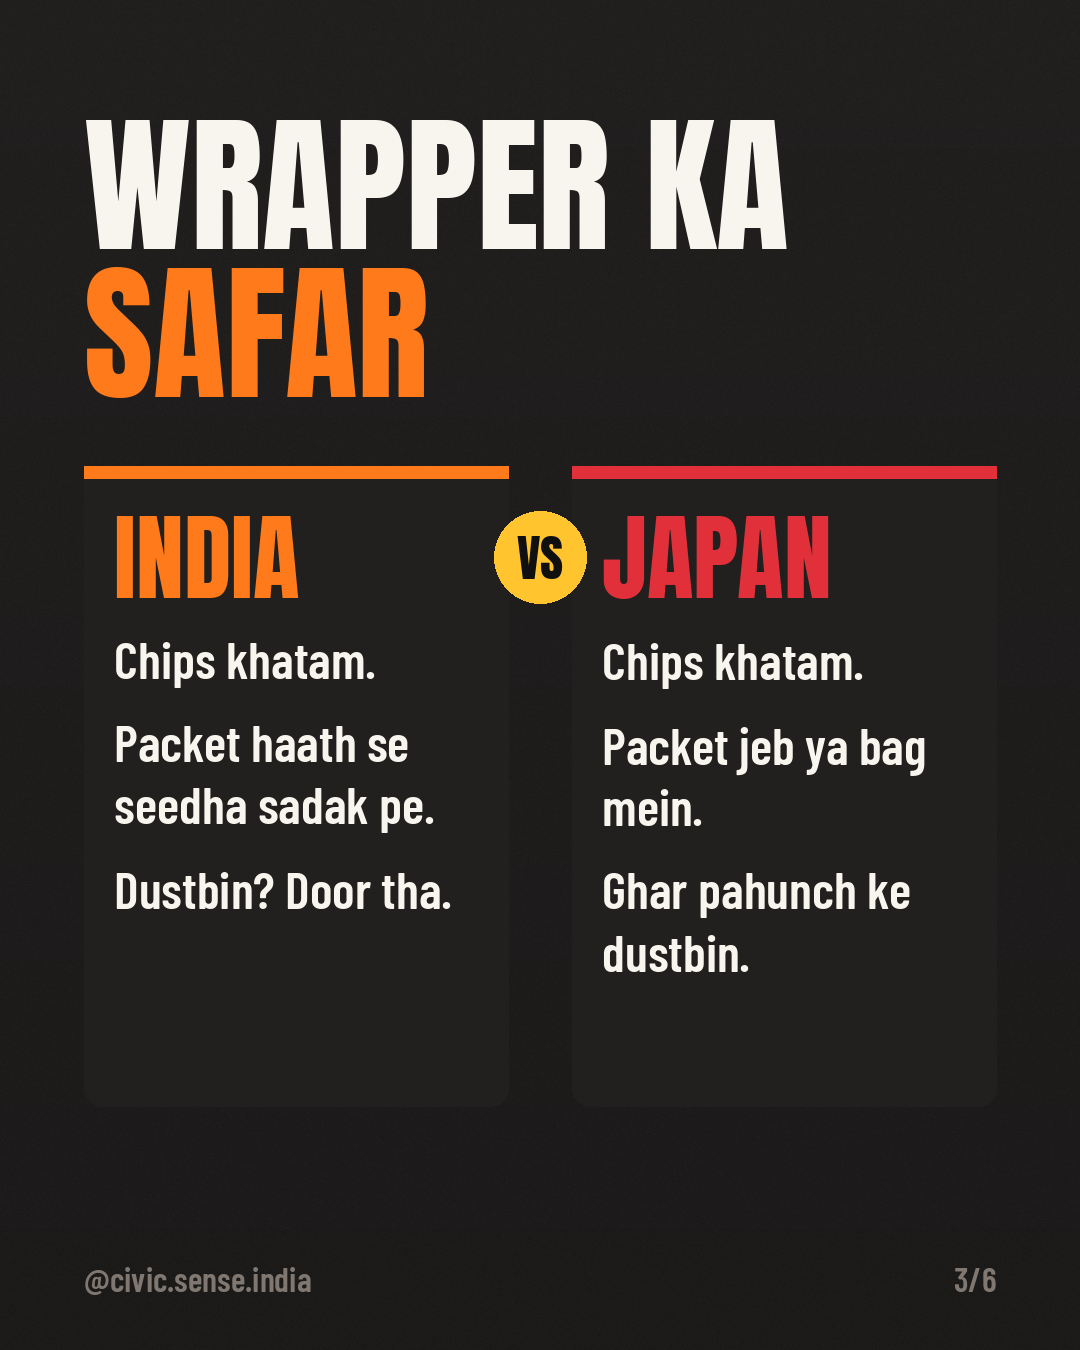
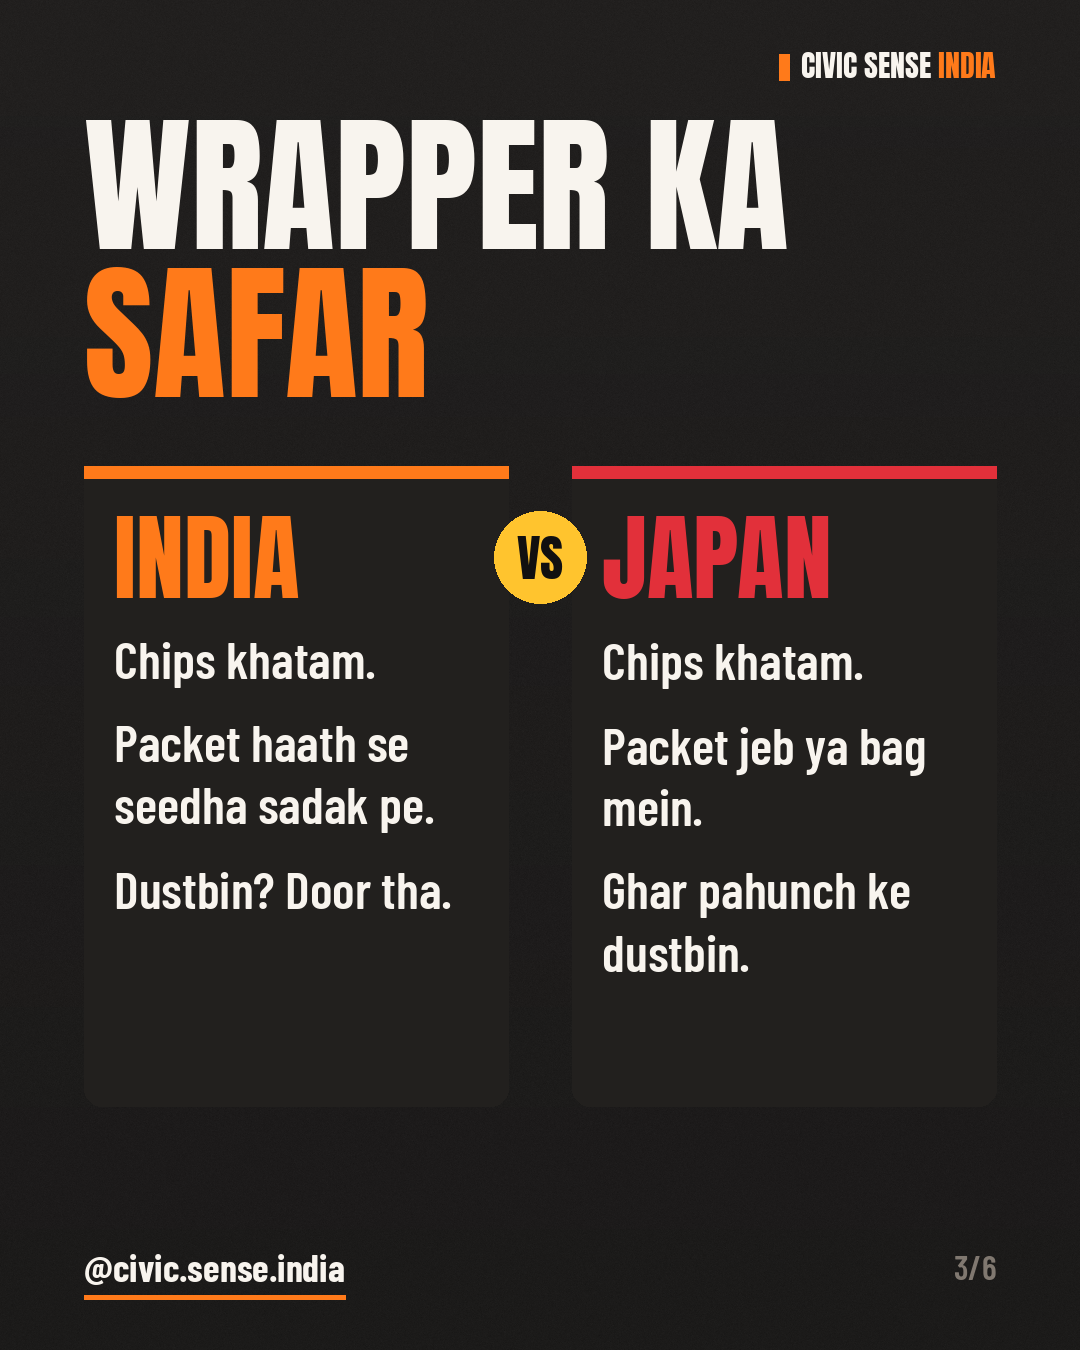
Brand India vs Japan slides; add brand badge
Claude-Session: https://claude.ai/code/session_01C6UJZVZTRF9V9m7drt3noW

Changed region(s): [[0.0611, 0.9333, 0.3361, 0.9644], [0.7028, 0.0311, 0.9167, 0.0622], [0.8861, 0.9333, 0.9167, 0.9644]]

diff --git a/tools/intense.py b/tools/intense.py
@@ -96,12 +96,30 @@ def chip(d, x, y, text, fill, fg=BG, size=38):
     return x + w + 2 * px, y + h + 2 * py
 
 
+def wordmark(d):
+    """Brand lockup, top right of every slide: saffron bar + CIVIC SENSE INDIA."""
+    f1 = font(ANTON, 30)
+    f2 = font(ANTON, 30)
+    t1, t2 = "CIVIC SENSE ", "INDIA"
+    w1, h1, ox1, oy1 = tw(d, t1, f1)
+    w2, h2, ox2, oy2 = tw(d, t2, f2)
+    x = W - MARGIN - w1 - w2
+    y = 52
+    d.rectangle([x - 22, y + 2, x - 12, y + h1 + 2], fill=SAFFRON)
+    d.text((x - ox1, y - oy1), t1, font=f1, fill=WHITE)
+    d.text((x + w1 - ox2, y - oy2), t2, font=f2, fill=SAFFRON)
+
+
 def footer(d, n, total):
-    f = font(SEMI, 34)
-    d.text((MARGIN, H - 92), HANDLE, font=f, fill=DIM)
+    wordmark(d)
+    f = font(BOLD, 38)
+    w, h, ox, oy = tw(d, HANDLE, f)
+    d.text((MARGIN - ox, H - 96 - oy), HANDLE, font=f, fill=WHITE)
+    d.rectangle([MARGIN, H - 96 + h + 10, MARGIN + w, H - 96 + h + 14], fill=SAFFRON)
+    f2 = font(SEMI, 34)
     label = f"{n}/{total}"
-    w, h, ox, oy = tw(d, label, f)
-    d.text((W - MARGIN - w - ox, H - 92), label, font=f, fill=DIM)
+    w, h, ox, oy = tw(d, label, f2)
+    d.text((W - MARGIN - w - ox, H - 94 - oy), label, font=f2, fill=DIM)
 
 
 def rule(d, x, y, w, col, h=10):
